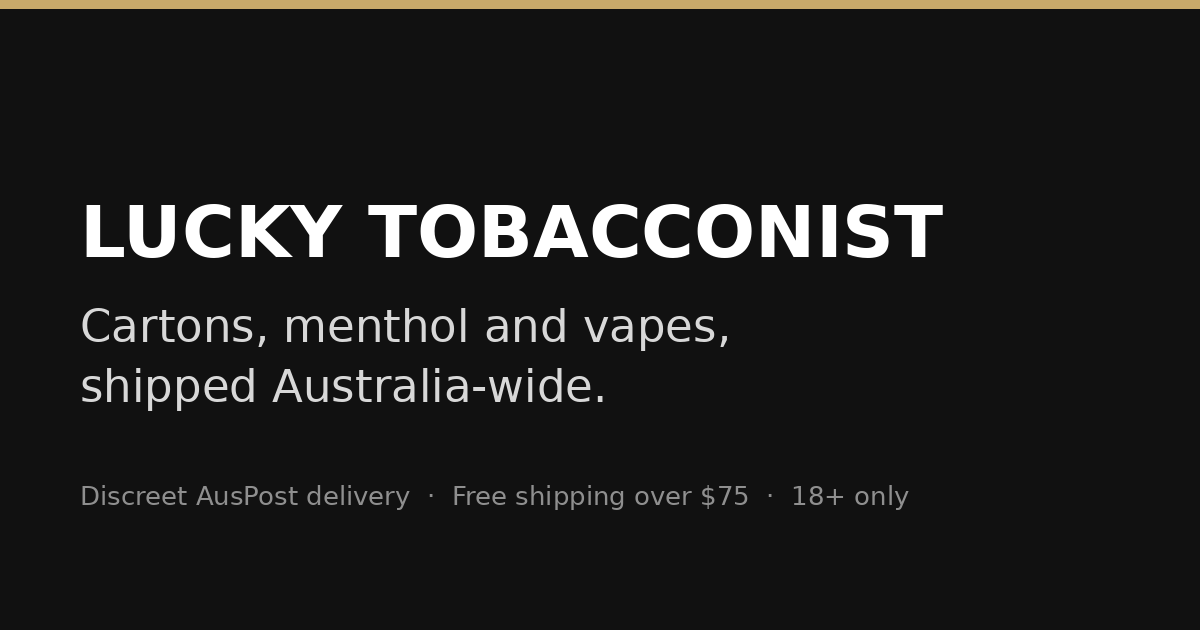
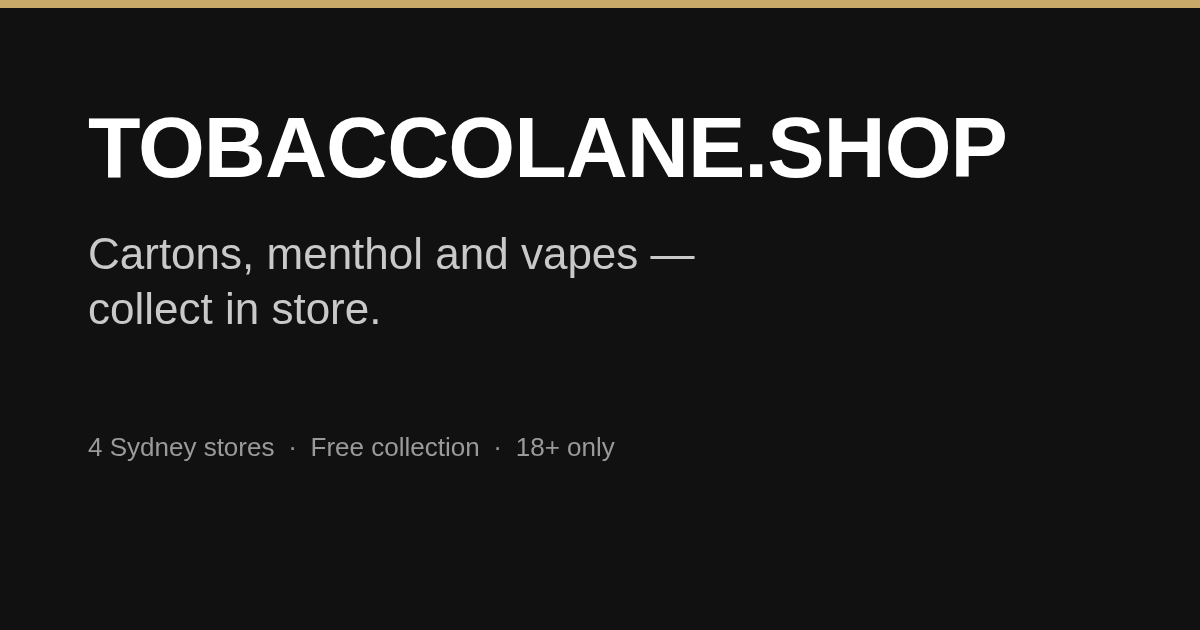
品牌：更名为 tobaccolane.shop
- 站点名、版权方、结构化数据组织名、默认品牌、标题模板全部改为 tobaccolane.shop
- 字标 SVG 文本由 LUCKY TOBACCONIST 改为 TOBACCOLANE.SHOP
- 重做 icon / apple-icon / favicon 为 TL 字标，OG 分享图重绘（去掉「全澳配送」旧口径，改为门店自提）
- 首页默认标题改为「Cartons, menthol and vapes」，避免域名与品牌同名导致标题重复

diff --git a/src/config/brand.ts b/src/config/brand.ts
@@ -15,16 +15,16 @@
 
 export const brandConfig = {
 	/** Site name used in titles, metadata, and headers */
-	siteName: "Lucky Tobacconist",
+	siteName: "tobaccolane.shop",
 
 	/** Legal entity name for copyright notices */
-	copyrightHolder: "Lucky Tobacconist",
+	copyrightHolder: "tobaccolane.shop",
 
 	/** Organization name for structured data (JSON-LD) */
-	organizationName: "Lucky Tobacconist",
+	organizationName: "tobaccolane.shop",
 
 	/** Default brand name for products without a brand */
-	defaultBrand: "Lucky Tobacconist",
+	defaultBrand: "tobaccolane.shop",
 
 	/** Tagline/description for the store */
 	tagline: "Cartons, menthol and vapes — free collection at 4 Sydney stores.",
@@ -34,10 +34,10 @@ export const brandConfig = {
 		"Factory-sealed cigarette cartons, menthol lines and disposable vapes. Discreet packaging and free collection at our 4 Sydney stores, 18+ only.",
 
 	/** Logo aria-label for accessibility */
-	logoAriaLabel: "Lucky Tobacconist",
+	logoAriaLabel: "tobaccolane.shop",
 
 	/** Title template - %s will be replaced with page title */
-	titleTemplate: "%s | Lucky Tobacconist",
+	titleTemplate: "%s | tobaccolane.shop",
 
 	/** Social media handles */
 	social: {

diff --git a/src/lib/content/defaults.ts b/src/lib/content/defaults.ts
@@ -54,7 +54,7 @@ export const defaultStorefrontContent = {
 			brandStory: {
 				heading: "An Australian tobacconist, online",
 				paragraphs: [
-					"Lucky Tobacconist supplies factory-sealed cartons, menthol lines and disposable vapes to adult smokers across Sydney. Every carton is sourced through established suppliers and stored in a temperature-controlled room before it is packed for collection.",
+					"tobaccolane.shop supplies factory-sealed cartons, menthol lines and disposable vapes to adult smokers across Sydney. Every carton is sourced through established suppliers and stored in a temperature-controlled room before it is packed for collection.",
 					"Every order is packed in plain, unbranded packaging and handed over the counter when you collect. Collection is always free — no minimum spend — and returns are accepted within {returnsWindowDays} days on unopened items.",
 				],
 			},

diff --git a/src/app/(storefront)/[locale]/[channel]/(main)/layout.tsx b/src/app/(storefront)/[locale]/[channel]/(main)/layout.tsx
@@ -11,7 +11,9 @@ import { AgeGate } from "@/ui/components/age-gate";
 // Define the title template here so it cascades to every browse page (products, search,
 // categories, …) — a plain-string title would not propagate the brand suffix to children.
 export const metadata: Metadata = {
-	title: { default: brandConfig.siteName, template: brandConfig.titleTemplate },
+	// Brand and domain are the same string, so a bare site name would render as
+	// "tobaccolane.shop | tobaccolane.shop". The default is a short line instead.
+	title: { default: "Cartons, menthol and vapes", template: brandConfig.titleTemplate },
 	description: brandConfig.description,
 };
 

diff --git a/src/ui/components/shared/logo.tsx b/src/ui/components/shared/logo.tsx
@@ -20,7 +20,7 @@ interface LogoProps {
 	inverted?: boolean;
 }
 
-export const Logo = ({ className, ariaLabel = "Lucky Tobacconist", inverted = false }: LogoProps) => {
+export const Logo = ({ className, ariaLabel = "tobaccolane.shop", inverted = false }: LogoProps) => {
 	const src = inverted ? "/brand-logo-dark.svg" : "/brand-logo.svg";
 
 	return (
